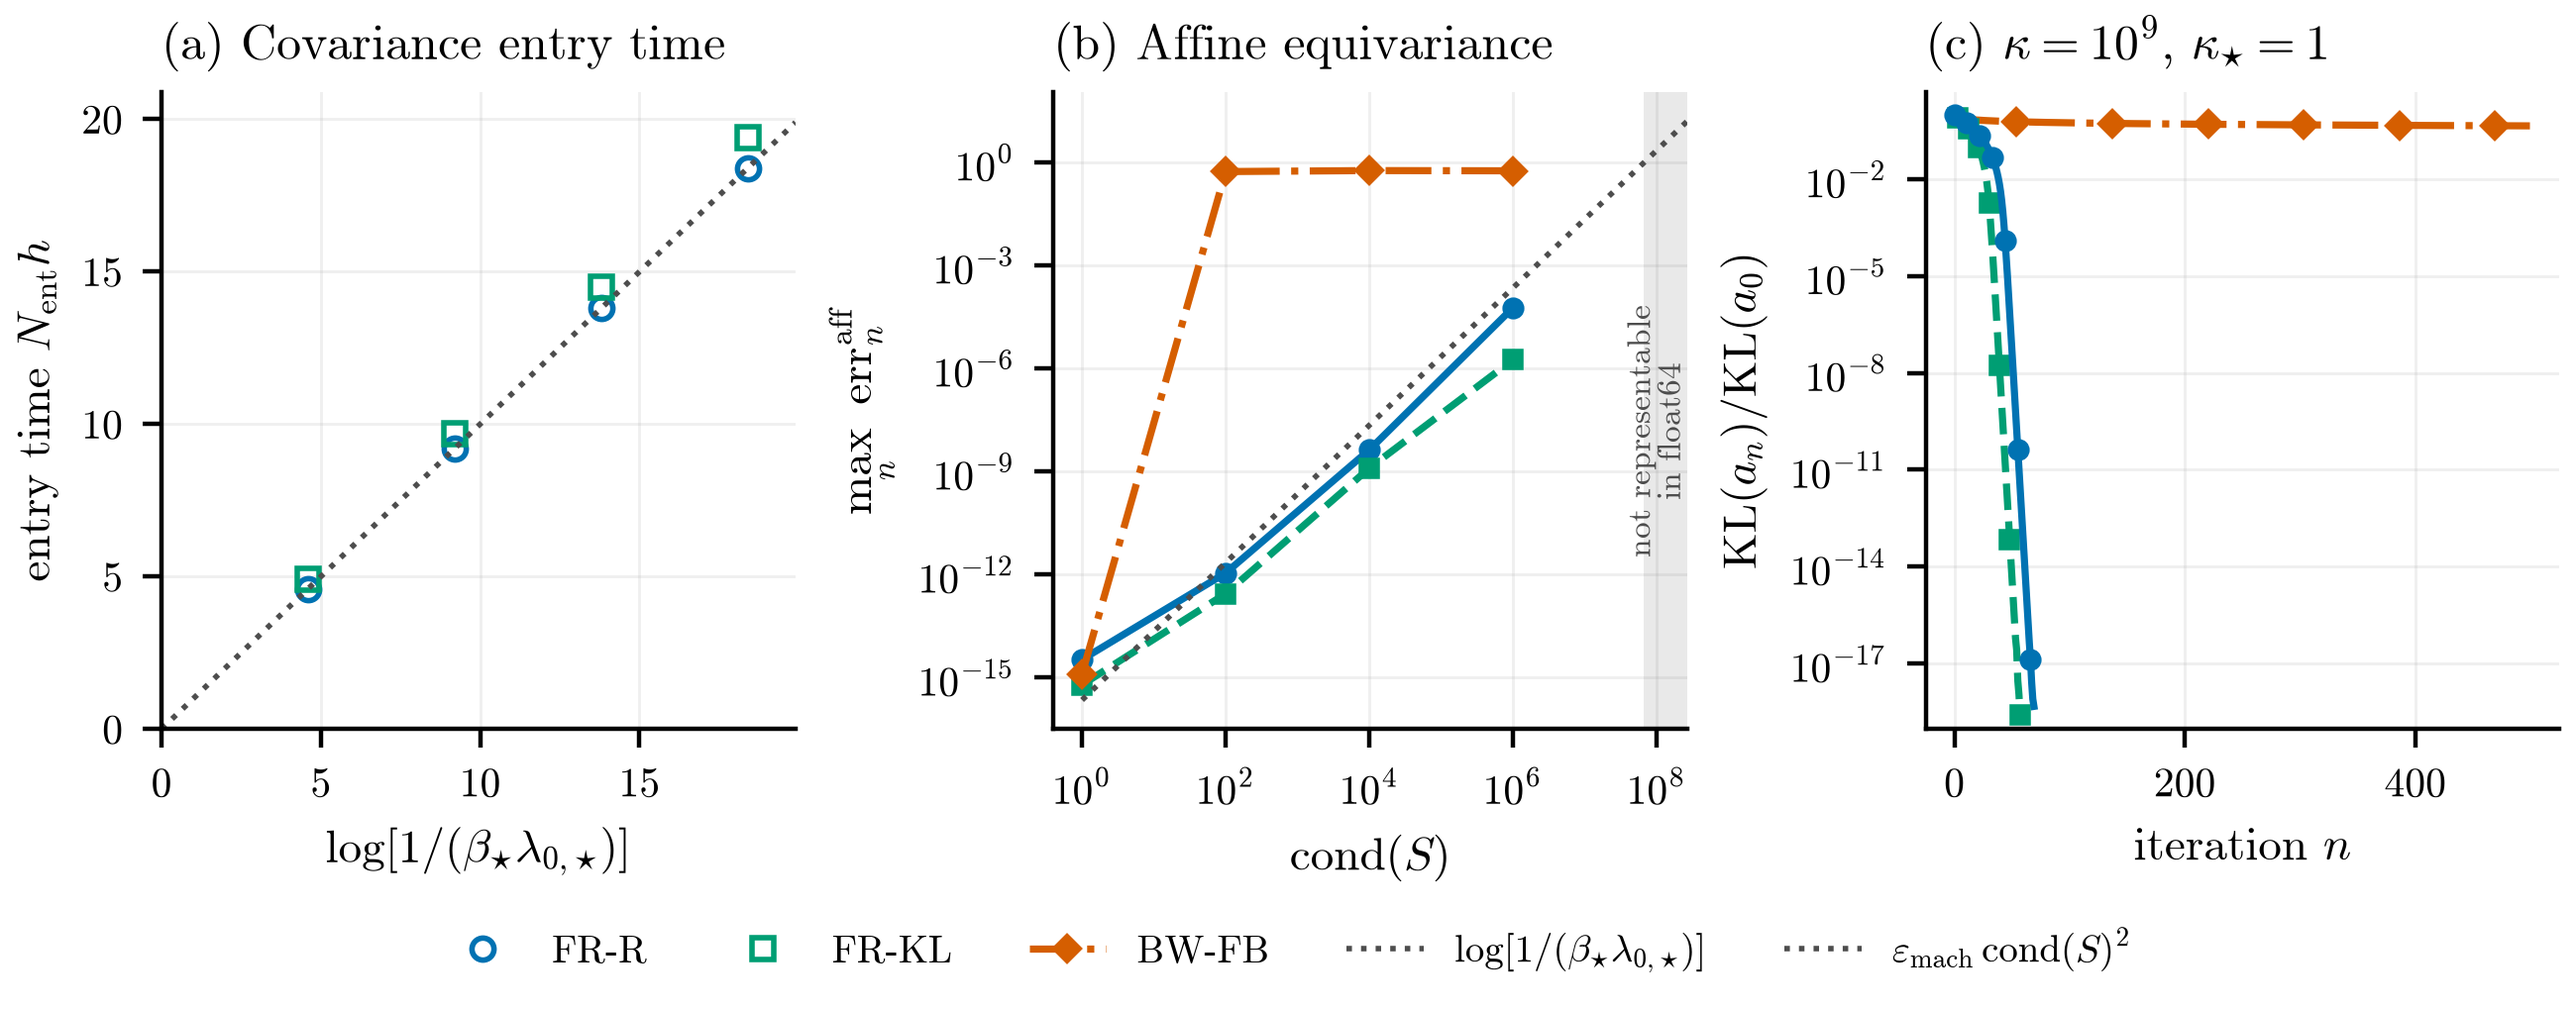
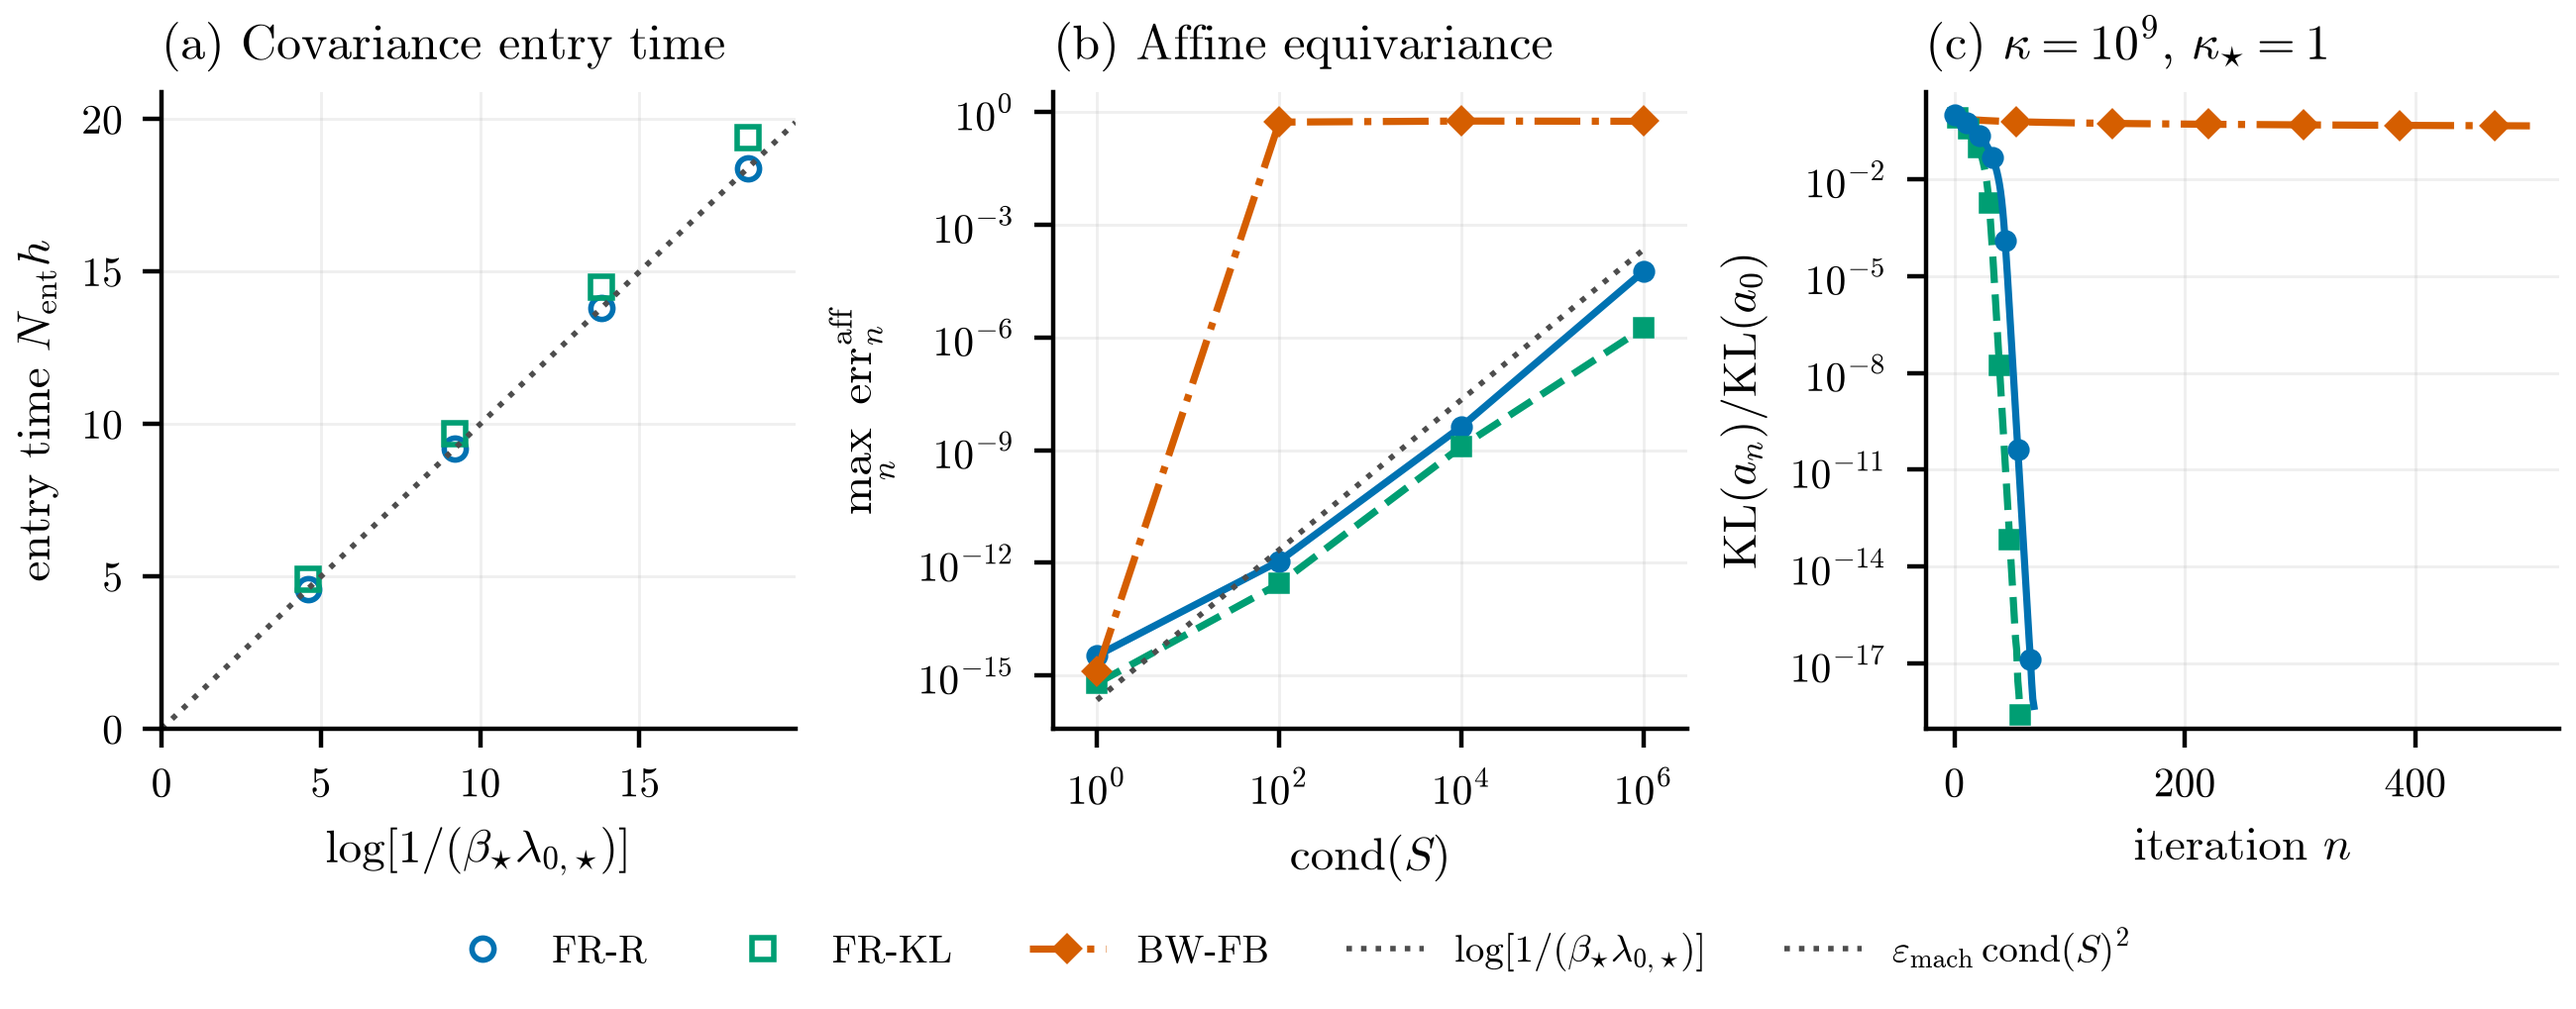
Remove the float64 annotation from Figure 1(b)
The rotated label crammed into a shaded strip was unreadable at panel size.  The
reference line already carries the eps*cond(S)^2 statement and the caption says
why the grid stops where it does.

diff --git a/src/fr_gvi/plotting/manuscript_figures.py b/src/fr_gvi/plotting/manuscript_figures.py
@@ -301,21 +301,16 @@ def panel_affine(axis: plt.Axes) -> pd.DataFrame:
         )
     # The covariance is carried forward by ``S C S^T`` and mapped back by
     # ``S^{-1} C S^{-T}``, so the round trip amplifies roundoff by ``cond(S)^2``.
-    # Where that reaches one the transported state is no longer representable in
-    # double precision; the grid stops below it and the region is shaded so the
-    # reason the panel ends where it does is visible rather than implicit.
-    breakdown = 1.0 / np.sqrt(EPS)
-    reference = np.geomspace(1.0, 4.0 * breakdown, 64)
+    # The reference line carries that statement on its own; where the grid stops and
+    # why belongs in the caption rather than in an annotation crammed into the
+    # margin of a panel this size.
+    conditions = np.asarray(sorted(table["grid_transform_condition"].unique()), dtype=float)
+    reference = np.geomspace(conditions.min(), conditions.max(), 64)
     axis.plot(reference, EPS * reference**2, color=REFERENCE_GREY, linestyle=":",
               linewidth=1.0, label=r"$\varepsilon_{\mathrm{mach}}\,\mathrm{cond}(S)^2$")
-    axis.axvspan(breakdown, 4.0 * breakdown, color=REFERENCE_GREY, alpha=0.12, linewidth=0.0)
-    axis.text(
-        breakdown * 1.5, EPS**0.5, "not representable\nin float64", fontsize=6.0,
-        color=REFERENCE_GREY, ha="center", va="center", rotation=90,
-    )
     axis.set_xscale("log")
     axis.set_yscale("log")
-    axis.set_xlim(0.4, 4.0 * breakdown)
+    axis.set_xlim(conditions.min() / 3.0, conditions.max() * 3.0)
     axis.set_xlabel(r"$\mathrm{cond}(S)$")
     axis.set_ylabel(r"$\max_n\ \mathrm{err}^{\mathrm{aff}}_n$")
     return table
@@ -387,11 +382,11 @@ def figure_1() -> dict[str, object]:
             "amplification through an ill-conditioned map rather than a loss of "
             "equivariance. FB--GVI, whose Bures--Wasserstein geometry "
             "is not affine invariant, departs by an $O(1)$ amount as soon as $S$ is not "
-            "orthogonal. The grid stops at $\\mathrm{cond}(S)=10^6$: the shaded region is "
-            "where $\\mathrm{cond}(S)^2$ reaches $\\varepsilon_{\\rm mach}^{-1}$, so the "
-            "transported covariance is no longer representable in double precision and no "
-            "method can be measured there. Every point drawn is a complete trajectory that "
-            "required no repair.",
+            "orthogonal. The grid stops at $\\mathrm{cond}(S)=10^6$ because one decade further "
+            "$\\mathrm{cond}(S)^2$ reaches $\\varepsilon_{\\rm mach}^{-1}$, the transported "
+            "covariance is no longer representable in double precision, and no method can "
+            "be measured. Every point drawn is a complete trajectory that required no "
+            "repair.",
             panel_affine,
             [f"F1affine_d10_S1e{e}" for e in (0, 2, 4, 6)],
         ),

diff --git a/results/figures/manuscript/figure_1.md b/results/figures/manuscript/figure_1.md
@@ -3,7 +3,7 @@
 Gaussian structure and affine invariance of the Fisher-Rao schemes. BW-FB denotes the forward-backward Bures-Wasserstein scheme of Diao et al., written here as the Bures-Wasserstein entry to match the geometry first naming of the two Fisher-Rao entries. All panels are deterministic and use the population gradient and Hessian, which are available in closed form for Gaussian targets.
 
 **(a)** Fisher-Rao entry time into the optimizer-whitened covariance band $\lambda_{\min}(C_n)\ge 1/2$ for the standard Gaussian target in $d=20$, over $\lambda_0\in\{10^{-2},10^{-4},10^{-6},10^{-8}\}$ at the common step $h=0.1$. The entry time grows with unit slope in the initialization term $\log_+[1/(\beta_{\star}\lambda_{0,{\star}})]$ of the global theorem over four decades of $\lambda_0$: the retraction sits on the predicted line to three digits, fitted slope $0.999$ and intercept $-0.000$, and the Bregman scheme runs about five per cent above it. This is a Fisher-Rao only measurement; no warm start is involved.
-**(b)** Largest discrepancy along the trajectory after mapping the iterates of the transformed problem $x\mapsto Sx+b$ back to the base coordinates, against $\mathrm{cond}(S)$. Both Fisher-Rao schemes agree with the base trajectory to roundoff, the residual growing like $\varepsilon_{\rm mach}\,\mathrm{cond}(S)^2$: from $10^{-15}$ at $\mathrm{cond}(S)=1$ through $10^{-12}$ and $10^{-9}$. The exponent is two because the covariance is carried by the congruence $C\mapsto SCS^\top$, so this is floating-point amplification through an ill-conditioned map rather than a loss of equivariance. BW-FB, whose Bures-Wasserstein geometry is not affine invariant, departs by an $O(1)$ amount as soon as $S$ is not orthogonal. The grid stops at $\mathrm{cond}(S)=10^6$: the shaded region is where $\mathrm{cond}(S)^2$ reaches $\varepsilon_{\rm mach}^{-1}$, so the transported covariance is no longer representable in double precision and no method can be measured there. Every point drawn is a complete trajectory that required no repair.
+**(b)** Largest discrepancy along the trajectory after mapping the iterates of the transformed problem $x\mapsto Sx+b$ back to the base coordinates, against $\mathrm{cond}(S)$. Both Fisher-Rao schemes agree with the base trajectory to roundoff, the residual growing like $\varepsilon_{\rm mach}\,\mathrm{cond}(S)^2$: from $10^{-15}$ at $\mathrm{cond}(S)=1$ through $10^{-12}$ and $10^{-9}$. The exponent is two because the covariance is carried by the congruence $C\mapsto SCS^\top$, so this is floating-point amplification through an ill-conditioned map rather than a loss of equivariance. BW-FB, whose Bures-Wasserstein geometry is not affine invariant, departs by an $O(1)$ amount as soon as $S$ is not orthogonal. The grid stops at $\mathrm{cond}(S)=10^6$ because one decade further $\mathrm{cond}(S)^2$ reaches $\varepsilon_{\rm mach}^{-1}$, the transported covariance is no longer representable in double precision, and no method can be measured. Every point drawn is a complete trajectory that required no repair.
 **(c)** Normalized exact KL gap on the anisotropic Gaussian target of Diao et al. in $d=10$ with logarithmically spaced precision eigenvalues, each method at its own certified step. Coordinate anisotropy and intrinsic conditioning differ maximally here: after optimizer whitening $\kappa_{\star}=1$, so the Fisher-Rao schemes reach the double-precision floor, while BW-FB remains limited by the original-coordinate conditioning. The target is chosen to separate the two notions of conditioning and is not evidence that Fisher-Rao always dominates.
 
 Panel data:
